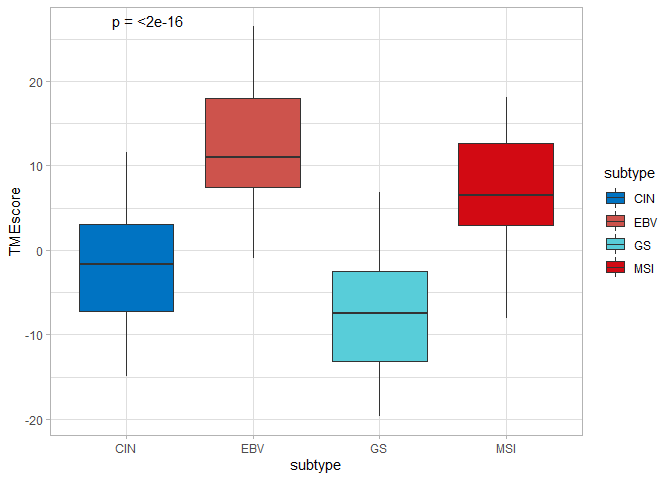
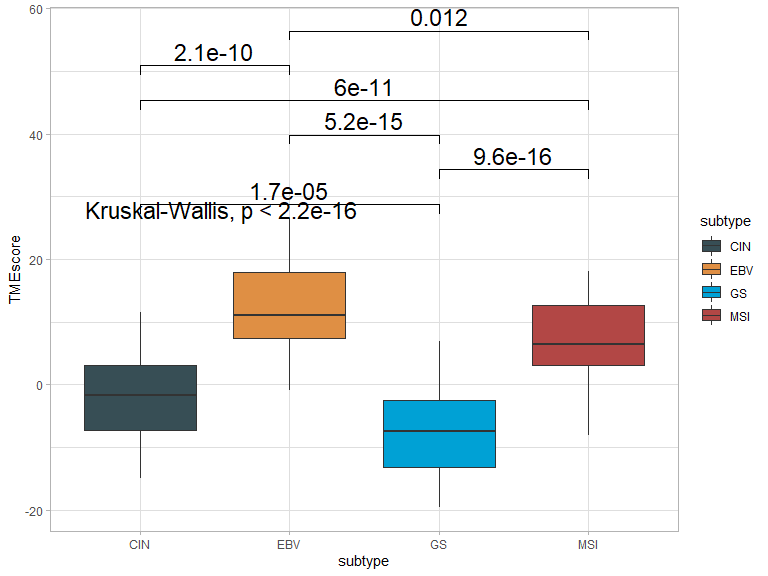
update README

diff --git a/README.md b/README.md
@@ -8,12 +8,14 @@
 TME infiltration patterns were determined and systematically correlated
 with TME cell phenotypes, genomic traits, and patient
 clinicopathological features to establish the
-[TMEscore](https://cancerimmunolres.aacrjournals.org/content/7/5/737)
+[TMEscore](https://cancerimmunolres.aacrjournals.org/content/7/5/737):Tumor
+Microenvironment Characterization in Gastric Cancer Identifies
+Prognostic and Immunotherapeutically Relevant Gene Signatures.
 
-TMEscore is a R package to do Tumor microenvironment analysis. Main
-advantages: - Provides functionality to calculate Tumor microenvironment
-(TME) score (PCA or z-score) - Functions to visulize TME data. -
-Identify TME relevant mutaions.
+TMEscore is an R package to perform tumor microenvironment analysis.
+Main advantages: 1. Provides functionality to calculate Tumor
+microenvironment (TME) score (PCA or z-score) 2. Functions to visualize
+TME data. 3. Identify TME relevant mutations.
 
 ### 2.Installation
 
@@ -49,8 +51,8 @@ Example
 ``` r
 tmescore<-tmescore(eset = eset_stad, #expression data
                    pdata = pdata_stad, #phenotype data
-                   method = "PCA",
-                   classify = T)
+                   method = "PCA", #default
+                   classify = T) #if true, survival data must be provided in pdata
 head(tmescore)
 #>               ID subtype   time status TMEscoreA TMEscoreB  TMEscore
 #> 284 TCGA-RD-A8N2    <NA> 118.00      0 -7.306563  13.24346 -20.55003
@@ -69,18 +71,29 @@ head(tmescore)
 ```
 
 ``` r
+#remove observation with missing value
 tmescore<-tmescore[!is.na(tmescore$subtype),]
-library(ggplot2)
+
 p<-ggplot(tmescore,aes(x= subtype,y=TMEscore,fill=subtype))+
   geom_boxplot(notch = F,outlier.shape = 1,outlier.size = 0.5)+
-  scale_fill_manual(values= c("#0073C2FF", "#CD534CFF", "#58CDD9","#D20A13" ))
-p+theme_light()+stat_compare_means(aes(label = paste0("p = ", ..p.format..)))
+  scale_fill_manual(values= c('#374E55FF', '#DF8F44FF', '#00A1D5FF', '#B24745FF'))
+
+comparision<-combn(unique(as.character(tmescore$subtype)), 2, simplify=F)
+
+p+theme_light()+stat_compare_means(comparisons = comparision,size=6)+stat_compare_means(size=6)
 ```
 
 <img src="man/figuresunnamed-chunk-5-1.png" width="100%" />
 
-## References
+### Citation
 
-Manuscript is under review.
+If you use TMEscore in published research, please cite: [Tumor
+microenvironment characterization in gastric cancer identifies
+prognostic and imunotherapeutically relevant gene
+signatures](https://cancerimmunolres.aacrjournals.org/content/7/5/737).
+Cancer Immunology Research, 2019, 7(5), 737-750. DOI:
+10.1158/2326-6066.CIR-18-0436, PMID: 30842092
+
+### Contact
 
 E-mail any questions to <dongqiangzeng0808@gmail.com>
